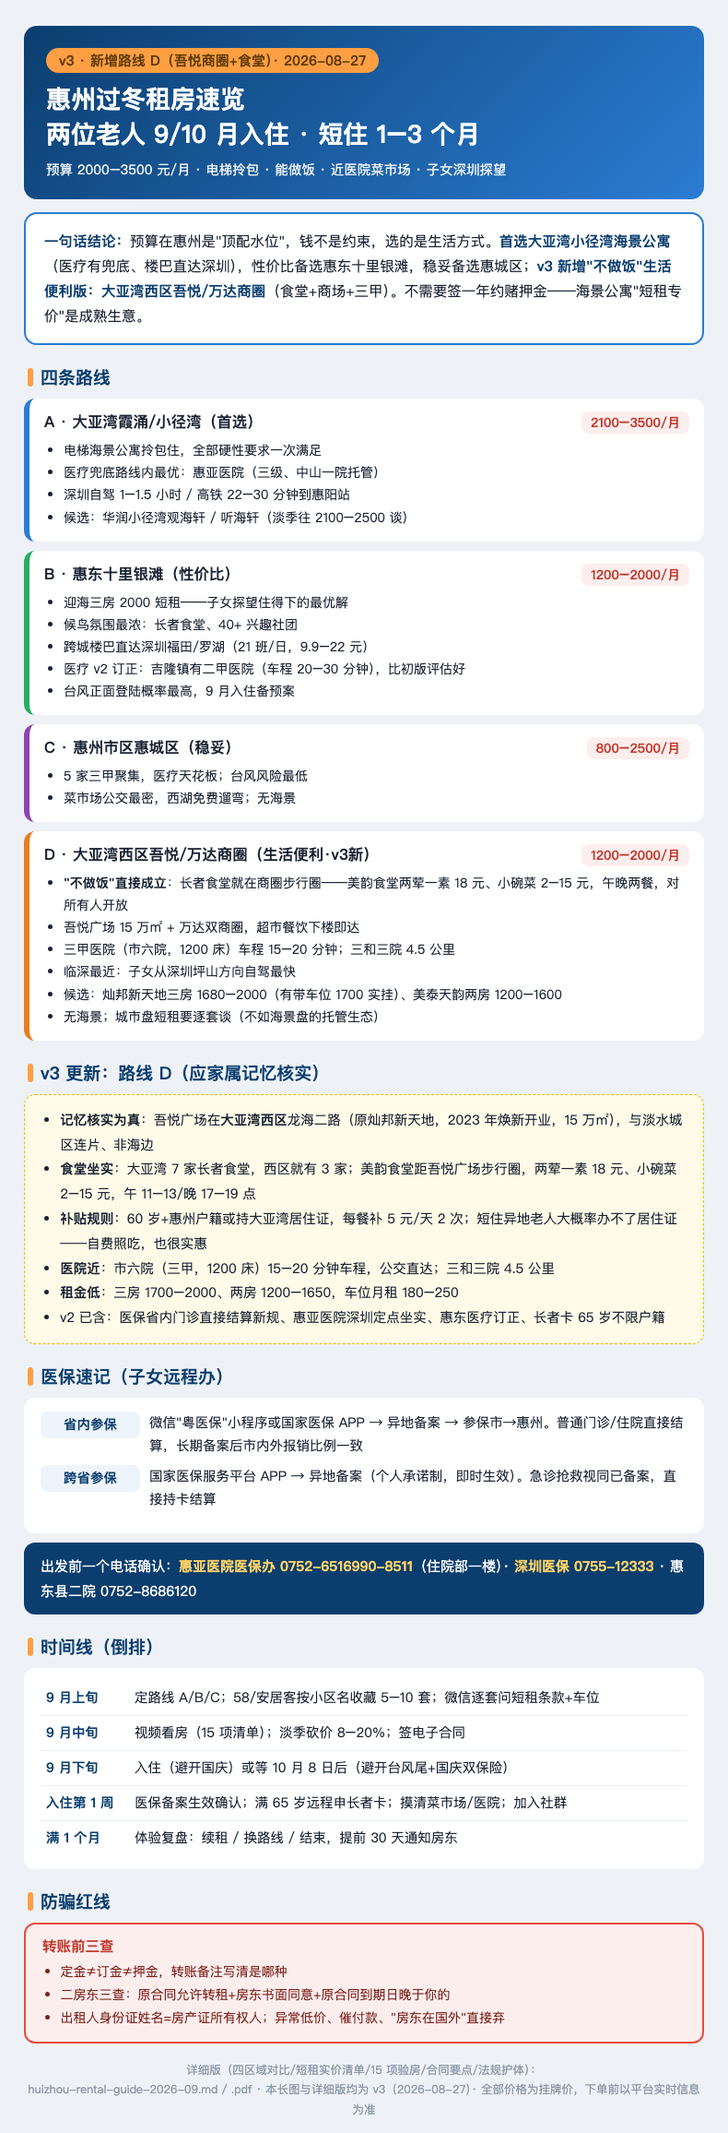
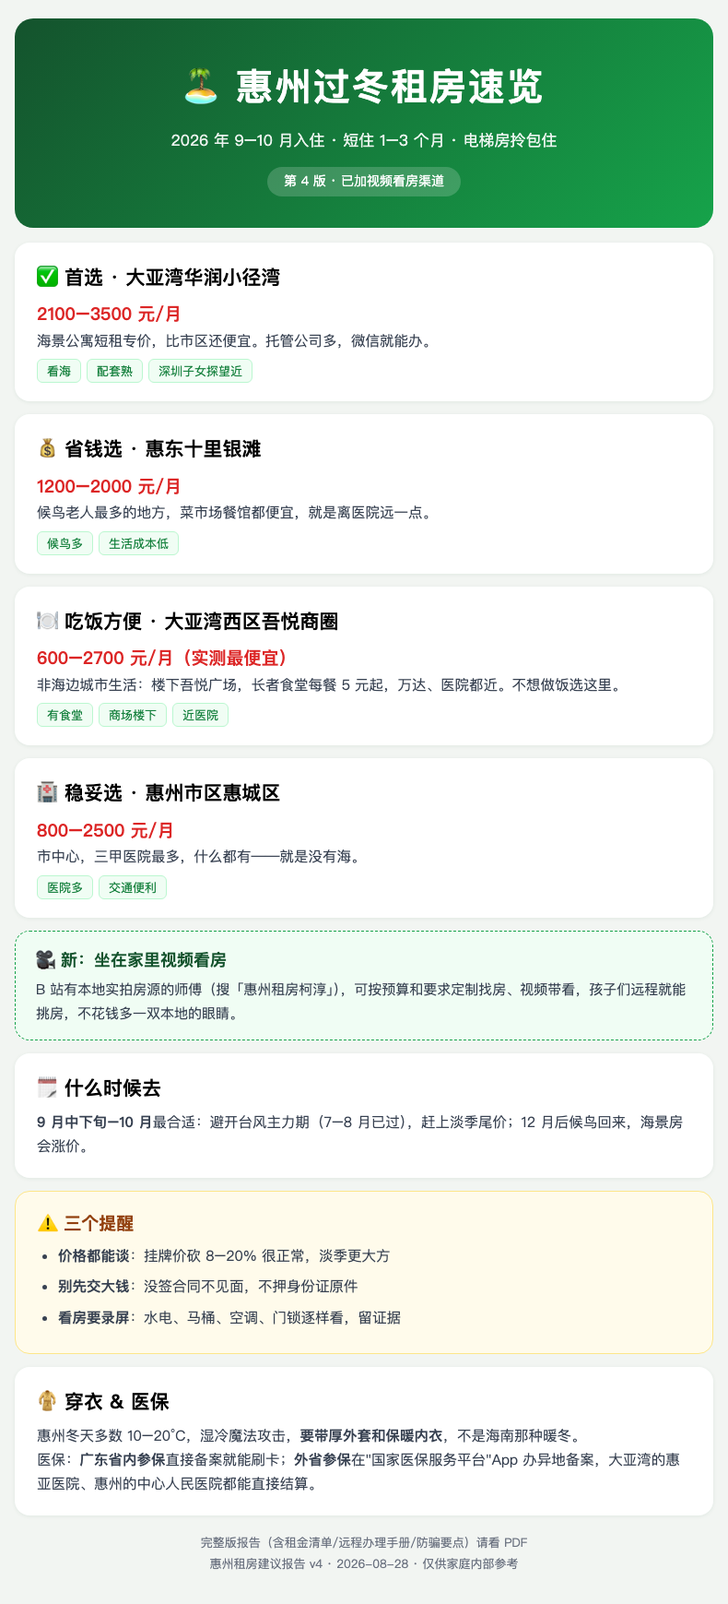
[web-surfing] 惠州租房报告v4: 吾悦商圈全网房源调研（B站一手数据）——租金下修至600-2700/月、噪音选房维度、视频探房渠道
- §5 路线D新增v4专项调研小节：B站实测价格表（柯淳系列/16万播放搬家实测/10万播放住满1年）、龙山十路噪音带选房注意、'惠州租房柯淳'视频探房远程办理渠道、三足鼎立商业格局与14号线接驳
- §4.2 短租清单补5行实测价；一句话结论更新路线D为四条线最便宜
- §6.1 远程SOP加B站本地UP主渠道；§10 局限加v4遗留（小红书登录墙/标题价未核/58反爬）
- §11 思考追问与§12 来源明细补v4；PDF与速览长图同步再生成

Agent: glm-5.3
Task-Type: task-execution

diff --git a/web-surfing/reports/huizhou-rental-guide-2026-09.md b/web-surfing/reports/huizhou-rental-guide-2026-09.md
@@ -4,7 +4,9 @@
 
 > **v3 增补（2026-08-27 晚，第三会话）**：应家属记忆补查"惠阳城区、吾悦广场附近、有食堂可不吃自己做"方向，全部核实为真并**新增路线 D · 大亚湾西区吾悦/万达商圈**（淡水城区连片、非海边）——商场/买菜/三甲医院/长者食堂四项全齐，食堂实锤就在吾悦商圈步行圈（见 §5 路线 D、§8 长者饭堂）。
 
-> **一句话结论**：预算 2000–3500 元/月在惠州属于"顶配水位"——钱不是约束，核心决策是选哪种生活方式。推荐首选**大亚湾霞涌/小径湾海景公寓短租**（医疗有兜底、楼巴直达深圳、电梯拎包全满足），性价比备选**惠东十里银滩**（1200–2000 元/月），稳妥备选**惠州市区惠城区**（医疗最强、无海景）；**v3 新增"不做饭"生活便利版：大亚湾西区吾悦/万达商圈**（长者食堂在步行圈、商场买菜、三甲 15 分钟，1200–2000 元/月，见路线 D）。短租供给成熟，**完全不需要"签一年约赌押金"**，但要避开 10 月 1–7 日国庆周和 9 月台风尾。
+> **v4 增补（2026-08-28，第四会话）**：对路线 D 做全网房源专项调研（B 站视频一手数据为主）——① 租金水位显著下修：吾悦/万达商圈精装三房实测低至 600–700 元/月（中介引流价）至 2000 元（业主挂价），1000 元级三房有人住满一年（B 站 10 万播放实测）；② 新增噪音选房维度：吾悦广场所在龙山十路是车流噪音带，选房避临路栋（35 小区锐评）；③ 新增"视频探房"远程渠道：B 站本地租房 UP 主"惠州租房柯淳"持续实拍吾悦周边房源，可微信联系带看（见 §5 路线 D v4 小节、§6.1）。小红书因登录墙未直连，经搜索引擎间接获取（见 §10）。
+
+> **一句话结论**：预算 2000–3500 元/月在惠州属于"顶配水位"——钱不是约束，核心决策是选哪种生活方式。推荐首选**大亚湾霞涌/小径湾海景公寓短租**（医疗有兜底、楼巴直达深圳、电梯拎包全满足），性价比备选**惠东十里银滩**（1200–2000 元/月），稳妥备选**惠州市区惠城区**（医疗最强、无海景）；**v3 新增"不做饭"生活便利版：大亚湾西区吾悦/万达商圈**（长者食堂在步行圈、商场买菜、三甲 15 分钟，**v4 实测 600–2000 元/月，四条路线里租金最低**，见路线 D）。短租供给成熟，**完全不需要"签一年约赌押金"**，但要避开 10 月 1–7 日国庆周和 9 月台风尾。
 
 ---
 
@@ -104,8 +106,13 @@
 | 大亚湾霞涌·东能银滩康养基地 | 标间 | 2980/人（包三餐，3 个月卡合 2800/人/月） | 一个月起住，单住单间补房差 1500/月 | 语雀价目表 2026-08-22 |
 | 惠城区·奥园领寓（金山湖） | 精装套房 30㎡ | 800（1/3/6 个月价不同） | 押一付一拎包入住 | 58 实抓 2026-08-27 |
 | 惠城区·晨阳公馆（麦地） | 1室1厅 42.79㎡ | 1688 | "押一短租"，港惠商圈 | 58 实抓 2026-08-27 |
-| **灿邦新天地**（大亚湾西区，吾悦广场旁/楼上，v3） | 2室 / 3室2厅2卫 | **两房 1450–1650；三房 1680–2000** | 精装拎包；实挂"吾悦楼上三房两卫**带车位** 1700"；车位月租 250 | 58 租房小区页（搜索聚合 2026-08-27） |
-| **美泰天韵**（大亚湾西区，万达旁，v3） | 2室2厅 75㎡ / 3室 | **两房 1200–1600**（58 小区均价 1200） | 万达商圈；车位月租 180 | 贝壳/58/房天下（搜索聚合 2026-08-27） |
+| **灿邦新天地**（大亚湾西区，吾悦广场旁/楼上，v3） | 2室 / 3室2厅2卫 | **两房 1450–1650；三房 1680–2000** | 精装拎包；实挂"吾悦楼上三房两卫**带车位** 1700"；车位月租 250 | 58 租房小区页（搜索聚合 2026-08-27）；v4 补：两房 59.14㎡ 南向 1600（llm 聚合，安居客口径） |
+| **美泰天韵**（大亚湾西区，万达旁，v3） | 2室2厅 75㎡ / 3室 | **两房 1200–1600**（58 小区均价 1200） | 万达商圈；车位月租 180 | 贝壳/58/房天下（搜索聚合 2026-08-27）；v4 补：3室2厅 97㎡ 约 1200、4室2厅 95.26㎡ 1500（llm 聚合） |
+| **吾悦旁精装 3房2卫**（v4，B 站实拍） | 3室2卫 | **600–700**（标题价"60-70 个"） | 精装拎包，次新小区；另有奶油风 3房2卫 600 | B 站"惠州租房柯淳"系列（2026 年发布，2026-08-28 抓取） |
+| **吾悦广场楼上**（v4，B 站实拍） | 住宅/公寓 | **800+** | 楼下即商场 | 同上 |
+| **万达旁 4房2卫**（v4，B 站实拍） | 4室2卫 | **1800（"可沟通"）** | 牧马湖后面次新小区、可养宠物、家电可按需配 | 同上（2026 年发布） |
+| **西区大平层**（v4，B 站 16 万播放 RoomTour） | 大平层 | **2700** | 家具家电齐全、日照好；UP 主从小径湾搬来的选择 | B 站《我们为什么选择离开小径湾，搬到大亚湾？》BV12LrDYFEJM |
+| **大亚湾城区 3房2厅**（v4，B 站 10 万播放） | 3室2厅 | **1000** | 住满 1 年实测；通勤深圳 10–60 分钟 | B 站《在深圳的"鹤岗"住满 1 年后》BV167FteNEid |
 
 **找法**：58/安居客按小区名搜，认标题里"可短租/短租一个月起/短租价格另议"；或直接打小区物业问托管公寓。托管公司模式（海云天类）最省事：报价透明、一个月起、微信远程办手续、智能门锁密码入住。
 
@@ -163,6 +170,43 @@
 
 **决策建议**：既然定位是"短住体验"，建议**路线 A 起步**——它同时满足"来惠州过冬的期待"和"医疗/探望的兜底"；住满 1–3 个月后若更喜欢热闹候鸟氛围再转路线 B（搬家成本很低，两个方向都在惠阳站辐射圈），若觉得海边生活不便则转路线 C 长租。反过来（市区→海边）的心理落差会小，但"体验"的效率低。**若"不做饭、吃食堂"是硬需求，或老人更适应城市生活节奏——路线 D 可直接作为第一站**，它是四条路线里"生活便利度×子女探望"的最优解，代价只是没有海。
 
+### 路线 D · v4 全网房源专项调研（2026-08-28，B 站一手数据为主）
+
+> 调研渠道：opencli bilibili（search/summary/user-videos，B 站 AI 字幕摘要一手抓取）+ llm Gemini websearch（小红书间接口径）+ firecrawl（58/安居客尝试，均被反爬挡）。小红书因登录墙未直连（§10）。
+
+**① 租金水位实测（下修 v3 口径）**
+
+| 来源 | 房源 | 价格 | 备注 |
+|---|---|---|---|
+| B 站·柯淳实拍系列 | 吾悦旁精装 3房2卫 / 奶油风 3房2卫 | **600–700/月** | 中介"帮粉丝找房"系列标题价（引流价可能，下单前核）；吾悦旁 4房2卫称 1900 预算内可找 |
+| B 站·柯淳 | 吾悦广场楼上 | 800+/月 | 楼下即商场 |
+| B 站·柯淳 | 万达旁 4房2卫（牧马湖后） | 1800 可谈 | 可养宠物、家电按需配 |
+| B 站·柯淳 | 业主自住 4房 | 挂 2200 可谈约 2000 | |
+| B 站·《离开小径湾搬大亚湾》（16 万播放） | 西区大平层 | 2700/月 | UP 主实测选择：配套完善、三商场近、外卖丰富、高铁近、"想海随时去小径湾" |
+| B 站·《深圳鹤岗住满 1 年》（10 万播放） | 大亚湾城区 3房2厅 | 1000/月 | 住满一年实测，通勤深圳 10–60 分钟 |
+| llm 聚合（安居客口径） | 灿邦新天地 两房 59.14㎡ 南向 | 1600 | 2019 年竣工、1005 户 |
+| llm 聚合 | 美泰天韵 3室2厅 97㎡ / 4室 95.26㎡ | 1200 / 1500 | 2014–16 竣工、绿化 35% |
+
+**结论：路线 D 实际租金带为 600–2700 元/月（三房主流 1200–2000），是四条路线里最便宜的**——2000–3500 预算在此可租顶配四房大平层，或用一半预算解决。价格离散度大（同地段 3房从 600 到 2000），说明**谈判空间和房源挑选比区域选择更重要**。
+
+**② 噪音选房维度（老人易忽视，v4 新增）**
+
+B 站《锐评惠州大亚湾 35 个小区安静程度》（1.2 万播放，实地考察）要点，对吾悦商圈直接相关：
+- **吾悦广场所在的龙山十路、以及中兴北路是车流噪音带**——灿邦新天地等紧邻吾悦的小区，选房时**要后排栋、避开临路朝向**（正好与"越近商场越方便"矛盾，需现场权衡）
+- 剪力墙结构高层普遍隔音差（现代通病）；砖混结构低层老房隔音反而好
+- 物业/邻居噪音同理：看房时段选晚上，听空调外机、电梯、学校广播
+- 同视频对周边小区的评价：星河丹堤（商业配套好但嘈杂）、海德上元（学校+工地+道路三重噪音，避）、荣盛御湖观邸（东侧高压线，南侧树林鸟鸣好）——均非吾悦核心圈，选房时可作对照
+
+**③ "视频探房"远程办理新渠道（v4 核心增量）**
+
+B 站存在活跃的本地租房 UP 主生态——**"惠州租房柯淳"**（bilibili.com/search?keyword=惠州租房柯淳，mid 305848377）持续实拍吾悦/万达周边房源（2026 年仍在更新，含"帮粉丝找房"按预算定制系列）。**用法**：子女远程办理时，可直接私信 UP 主按需求（电梯、三房、车位、预算 2000–3500）定制找房+视频带看——相当于免费多一个本地"眼睛"，与 58/安居客挂牌互补。同类还有《惠州旅居短租超详细攻略》（BV1GDAwetEdR，住哪里/天气/选址框架）等旅居内容可参考。
+
+**④ 商圈与交通再确认**
+
+- 商业格局为**吾悦广场 + 大亚湾万达 + 益田假日广场"三足鼎立"**，间距都很近（v3 只列了吾悦+万达，v4 补益田假日）
+- 深圳地铁 14 号线**沙田站**紧邻西区、惠州公交接驳（数字游民跨城通勤实测路线）；16 号线远期对接规划中
+- 人口构成补充：西区近年吸引大量数字游民/线上工作者（"深圳鹤岗"叙事，10 万+播放视频佐证），社区比传统养老社区更年轻化——老人视角是双刃剑（配套新而全 vs 候鸟同龄社群少于滨海）
+
 ---
 
 ## 6. 远程办理全流程 SOP（子女操作手册）
@@ -173,6 +217,8 @@
 第 1 步 锁定候选（1–2 天）
   58同城/安居客 App 按小区名搜（"华润小径湾""十里银滩""奥园领寓"）
   筛"可短租/押一付一"，收藏 5–10 套，记录挂牌价
+  v4 增：大亚湾方向加一个渠道——B 站搜"惠州租房柯淳"（本地实拍 UP 主，
+  有"帮粉丝按预算找房"系列），可私信定制需求视频带看，与平台挂牌互补
 第 2 步 联系核实（1–2 天）
   房源页留微信/电话 → 逐套问清：短租起租期、是否含物业网络、水电单价、押付方式、
   车位（是否含车位/车位月租多少/子女探望访客临停怎么算——需求里有停车，v1 漏问了）
@@ -313,13 +359,14 @@
 5. 淡水"凤凰山公园"未核实；博罗县人民医院等级未查（本报告未推荐博罗，影响小）
 6. **v2 遗留**：惠东县第二人民医院的二甲资质未查到卫健部门原始文件（是好大夫/公开报道聚合口径）；十里银滩→吉隆车程为地图估算〔推测〕；中惠医院等级仍未核实（初版已知问题，v2 亦未解决）；车位月租行情未查到可靠公开源（已转为合同清单项让子女落地核实；v3 已补大亚湾西区城市盘车位 180–250/月的挂牌口径）
 7. **v3 遗留**：美韵食堂"距吾悦广场约 1 公里"是据美韵社区（美泰天韵片区，龙山七路/龙海二路）与吾悦广场（龙山十路/龙海二路）同路相邻的推断〔推测〕，建议电话或地图实测；灿邦新天地/美泰天韵租金为 58/贝壳/房天下搜索聚合口径（非逐条打开原页），吾悦广场内超市品牌未核；西区短租的"常规整租为主"判断基于城市盘生态推断，未实测短租成功率
+8. **v4 遗留**：小红书因登录墙未直连（opencli/agent-reach 同源撞墙），其口径为 llm Gemini 间接口径，置信度低于 B 站一手字幕摘要；"柯淳"系列价格为视频标题价（引流价可能，实际以私信报价为准，未逐条核实）；58 同城筛选页/区域页/关键词页全部被反爬拦截（返回 115 字符/0 字节），只能用首页锚点+搜索聚合；《锐评大亚湾 35 个小区安静程度》的噪音结论为 UP 主主观实地体感（1.2 万播放），非分贝实测
 
 ---
 
 ## 11. 思考与追问（METHODOLOGY 强制项）
 
 **我真正理解了什么？**
-"1–3 个月短租"在多数城市是租房市场的死角，但在供给严重过剩的度假地产市场反而是富矿——惠州海景公寓空置率之高，使"短租专价"成为一门正经生意（托管公司+智能锁+微信办理）。**约束条件反过来定义了最优解**：如果不是短住，不会发现"比市区还便宜的海景房"这个结构性的错价。v3 又补了一层：**"不做饭"这个看似生活小事的约束，恰好是选址的分水岭**——海景盘做饭自给，城市盘（西区）食堂自给，两套解法对应两种老人。
+"1–3 个月短租"在多数城市是租房市场的死角，但在供给严重过剩的度假地产市场反而是富矿——惠州海景公寓空置率之高，使"短租专价"成为一门正经生意（托管公司+智能锁+微信办理）。**约束条件反过来定义了最优解**：如果不是短住，不会发现"比市区还便宜的海景房"这个结构性的错价。v3 又补了一层：**"不做饭"这个看似生活小事的约束，恰好是选址的分水岭**——海景盘做饭自给，城市盘（西区）食堂自给，两套解法对应两种老人。v4 的第三层：**在城市盘里，价格离散度大到"区域选择"让位于"房源挑选"**——同在吾悦商圈，三房从 600 到 2000 元都有，中间差的不只是装修，更是信息（谁找到了自住业主直租、谁只在平台挂牌里挑）；而且 B 站等视频平台存在"真人实拍+按预算定制找房"的本地中介生态，远程办理多了一个免费的眼睛。
 
 **我还没搞懂什么？**
 - 具体到某一套房的 9 月实际成交价与挂牌价的差距（需要真刀真枪谈 3–5 套才知道）
@@ -327,13 +374,15 @@
 - ~~惠亚医院"可直接用深圳社保"的说法只见楼盘宣传口径，未见医保局文件~~ **（v2 已解决：医院官网一手回复 2016-08 起即为深圳市外定点住院联网结算，2025 年起省内门诊也打通，见 §8；出发前打 0752-6516990-8511 做最后确认即可）**
 - 万科双月湾"永恒度假公寓"这类养老社区的实际入住体验（销售话术 vs 真实）
 - v2 新增：父母医保参保地属于哪种情形（省内/跨省）决定走哪套备案流程——这只有家里人知道，是执行前的第一个分叉
+- v4 新增：柯淳系列 600–700 元三房是引流标题价还是真实可得——需私信验证；西区"600–2700 元"巨大价差中，父母预算 2000–3500 对应的最优解（顶配四房 vs 半价三房省钱）只有看到实房才能定
 
 **下一步做什么？**
 1. 用 58/安居客 App 把 §4.2 清单里 3–5 套候选的实际在挂状态核实一遍（房源随时下架）
 2. 若确定路线 A：直接微信联系华润小径湾托管/中介，问 9 月下旬–12 月的三个月整租打包价
 3. **先确认父母医保参保地**（省内→粤医保小程序；跨省→国家医保 APP），这是远程能办的第一件事，别等到入住后
 4. **先问一句父母"愿不愿意天天做饭"**——不愿做就直接把路线 D 提到第一位，用地图实测美韵食堂与候选房源的步行距离
-5. 给父母看的版本：本报告已浓缩成微信速览长图（`huizhou-rental-guide-2026-09-quick.png`，v2/v3 已同步更新）
+5. 给父母看的版本：本报告已浓缩成微信速览长图（`huizhou-rental-guide-2026-09-quick.png`，v2/v3/v4 已同步更新）
+6. v4 新增：若走路线 D，私信 B 站"惠州租房柯淳"报需求（电梯三房/车位/2000–3500 预算/吾悦万达周边），要 2–3 套视频带看，与平台挂牌交叉比价
 
 ---
 
@@ -364,10 +413,20 @@
 - 灿邦新天地/美泰天韵租金与车位（两房 1450–1650/1200–1600、三房 1680–2000，车位 250/180 元/月）：58 同城租房小区页、贝壳找房、房天下（搜索聚合 2026-08-27，非逐条实抓）
 - 惠阳淡水土湖片区长者饭堂（新雅社区·雅居乐花园一期、松岭社区 2023-08 揭牌）：惠州本地宝、搜狐惠州 2023-08
 
+**v4 增补来源（2026-08-28·全网房源调研会话）**
+- B 站《我们为什么选择离开小径湾，搬到大亚湾？》（16 万播放，西区大平层 2700/月实测）：BV12LrDYFEJM，B 站 AI 字幕摘要一手抓取
+- B 站《在深圳的"鹤岗"住满 1 年后》（10 万播放，大亚湾城区 3房2厅 1000/月、通勤深圳 10–60 分钟）：BV167FteNEid，AI 字幕摘要
+- B 站《锐评惠州大亚湾 35 个小区安静程度》（1.2 万播放，实地考察，龙山十路/中兴北路噪音带结论）：BV1U3FGzYEaS，AI 字幕摘要
+- B 站《惠州旅居短租超详细攻略》：BV1GDAwetEdR（无 AI 摘要，标题信息）
+- B 站 UP 主"惠州租房柯淳"（mid 305848377）实拍系列：吾悦旁精装三房 600–700/吾悦楼上 800+/万达旁四房 1800 可谈/业主自住四房 2200→2000（user-videos 列表一手抓取 2026-08-28；标题价，未逐条核实）
+- 小红书"大亚湾租房"口径（三房 1300–2500、候鸟聚居、近商场菜市场）：llm Gemini websearch 间接口径（登录墙未直连，§10-8）
+- 灿邦新天地两房 1600（59.14㎡ 南向，2019 竣工 1005 户）/美泰天韵三房 1200·四房 1500：llm Gemini 搜索聚合（安居客口径）
+
 ---
 
 *v1 报告生成时间: 2026-08-27（白天，glm-5.3 主会话 + 子代理三路并行）*
 *v2 增补时间: 2026-08-27 晚（第二会话复核：医保章节重写/惠东医疗订正/长者卡核实/清单补项）*
 *v3 增补时间: 2026-08-27 晚（第三会话：应家属记忆核实"惠阳城区吾悦广场+食堂"方向，新增路线 D·大亚湾西区吾悦/万达商圈，长者饭堂全名单与补贴规则落实）*
-*数据来源: 58同城/安居客/房天下（firecrawl 实抓 + 搜索聚合）、南方+/惠州日报/南方都市报/三联生活周刊/腾讯新闻（候鸟生态）、各医院官网、12306/Trip.com、llm Gemini websearch（行情聚合与法规核实）、WebSearch + curl 官网实抓（v2/v3 核查）、子代理三路并行调研*
+*v4 增补时间: 2026-08-28（全网房源调研会话：B 站一手实拍数据为主——租金水位下修至 600–2700/月、新增噪音选房维度与"柯淳"视频探房渠道、§4.2 补 5 行实测价）*
+*数据来源: 58同城/安居客/房天下（firecrawl 实抓 + 搜索聚合）、南方+/惠州日报/南方都市报/三联生活周刊/腾讯新闻（候鸟生态）、各医院官网、12306/Trip.com、llm Gemini websearch（行情聚合与法规核实）、WebSearch + curl 官网实抓（v2/v3 核查）、子代理三路并行调研、opencli bilibili 搜索/摘要/UP 主列表一手抓取（v4）*
 *说明: 全部价格为挂牌价/口头报价，非成交价；标注"搜索聚合"的数据未经原页核验；房源随时下架，下单前以平台实时信息为准。本报告已脱敏，不含任何个人信息。*

diff --git a/docs/REPORT_INDEX.md b/docs/REPORT_INDEX.md
@@ -7,7 +7,8 @@
 
 | 日期 | 报告 | 领域 |
 |------|------|------|
-| 2026-08-27 | [惠州租房建议报告——两位老人 2026 年 9/10 月入住版（1–3 个月短住体验）](../web-surfing/reports/huizhou-rental-guide-2026-09.md) | web-surfing |
+| 2026-08-28 | [惠州租房建议报告——两位老人 2026 年 9/10 月入住版（1–3 个月短住体验）](../web-surfing/reports/huizhou-rental-guide-2026-09.md) | web-surfing |
+| 2026-08-28 | [AI 行业日报 · 2026-08-28](../web-surfing/reports/ai-news-daily-2026-08-28.md) | web-surfing |
 | 2026-08-27 | [AI 行业日报 · 2026-08-27](../web-surfing/reports/ai-news-daily-2026-08-27.md) | web-surfing |
 | 2026-08-26 | [AI 行业日报 · 2026-08-26](../web-surfing/reports/ai-news-daily-2026-08-26.md) | web-surfing |
 | 2026-08-25 | [身体出现这些信号，可能是炎症在提醒你！——帆书讲《炎症》](../podcast-learning/reports/2026-08-21_bilibili-fanshu_yanzheng.md) | podcast-learning |
@@ -31,7 +32,6 @@
 | 2026-07-21 | [程乐松一手文本精读：重返经验、断裂的居间性与「做中国哲学」的手筋](../philosophy-learning/reports/concept_reports/程乐松_方法论一手精读_重返经验与做中国哲学_20260720.md) | philosophy-learning |
 | 2026-07-20 | [实习生抢答、老教授过目：速度快 2-3 倍，凭什么一个字都不改？—— 投机解码科普](../ai-learning/reports/knowledge_reports/投机解码SpeculativeDecoding_科普讲解_20260720.md) | ai-learning |
 | 2026-07-20 | [同一个模型分数能差 2 倍、价格能差 140 倍——Agent 时代的榜单到底该怎么看？](../ai-learning/reports/knowledge_reports/Agent_LLM评分体系与主流模型价格能力_科普讲解_20260720.md) | ai-learning |
-| 2026-07-20 | [同一个 GPT-5.5 考出四个分数——Agent 的智能，几分靠模型、几分靠 Harness？](../ai-learning/reports/knowledge_reports/Agent智能_模型与Harness各占多少_科普讲解_20260720.md) | ai-learning |
 
 ## 🤖 AI Learning（97 篇）
 
@@ -263,11 +263,12 @@
 | 2026-06-20 | [三年行业吃肉榜/爆亏榜大合集（2023-2025）：谁在偷偷赚钱，谁在快速衰落](../podcast-learning/reports/2026-06-20_bilibili-cls-tongxue_hangye-bangdan.md) | — |
 | 2026-06-18 | [Vol.29 对话王小川：造医生，战豆包，与无尽的 AI 非共识](../podcast-learning/reports/2026-06-18_xiaoyuzhou-mingjing-diandian_wangxiaochuan.md) | — |
 
-## 🏄 Web Surfing（9 篇）
+## 🏄 Web Surfing（10 篇）
 
 | 日期 | 报告 | 标签 |
 |------|------|------|
-| 2026-08-27 | [惠州租房建议报告——两位老人 2026 年 9/10 月入住版（1–3 个月短住体验）](../web-surfing/reports/huizhou-rental-guide-2026-09.md) | — |
+| 2026-08-28 | [惠州租房建议报告——两位老人 2026 年 9/10 月入住版（1–3 个月短住体验）](../web-surfing/reports/huizhou-rental-guide-2026-09.md) | — |
+| 2026-08-28 | [AI 行业日报 · 2026-08-28](../web-surfing/reports/ai-news-daily-2026-08-28.md) | — |
 | 2026-08-27 | [AI 行业日报 · 2026-08-27](../web-surfing/reports/ai-news-daily-2026-08-27.md) | — |
 | 2026-08-26 | [AI 行业日报 · 2026-08-26](../web-surfing/reports/ai-news-daily-2026-08-26.md) | — |
 | 2026-08-25 | [AI 行业日报 · 2026-08-25](../web-surfing/reports/ai-news-daily-2026-08-25.md) | — |
